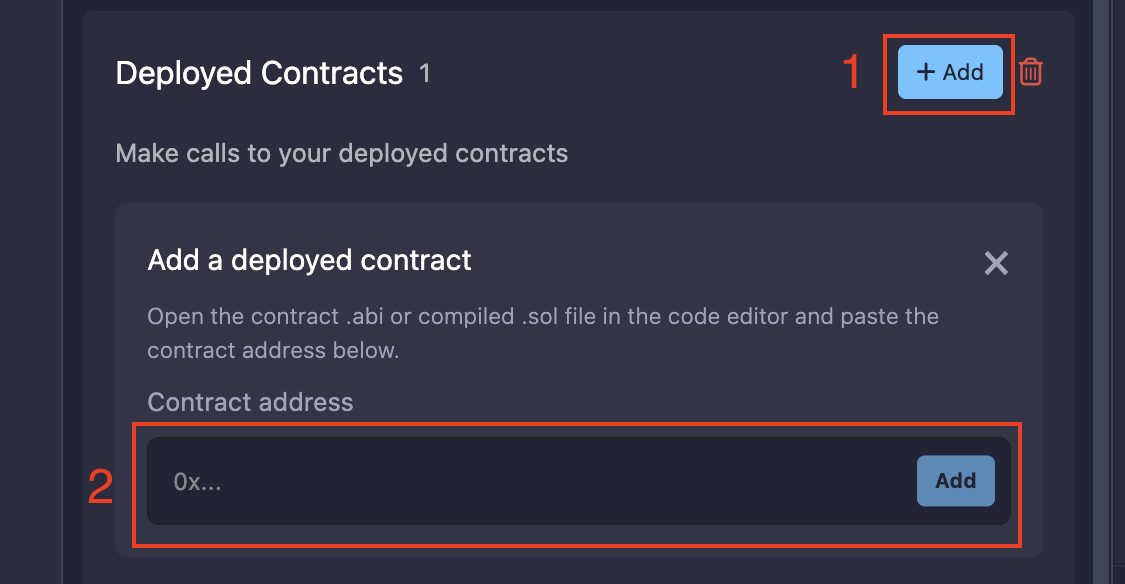
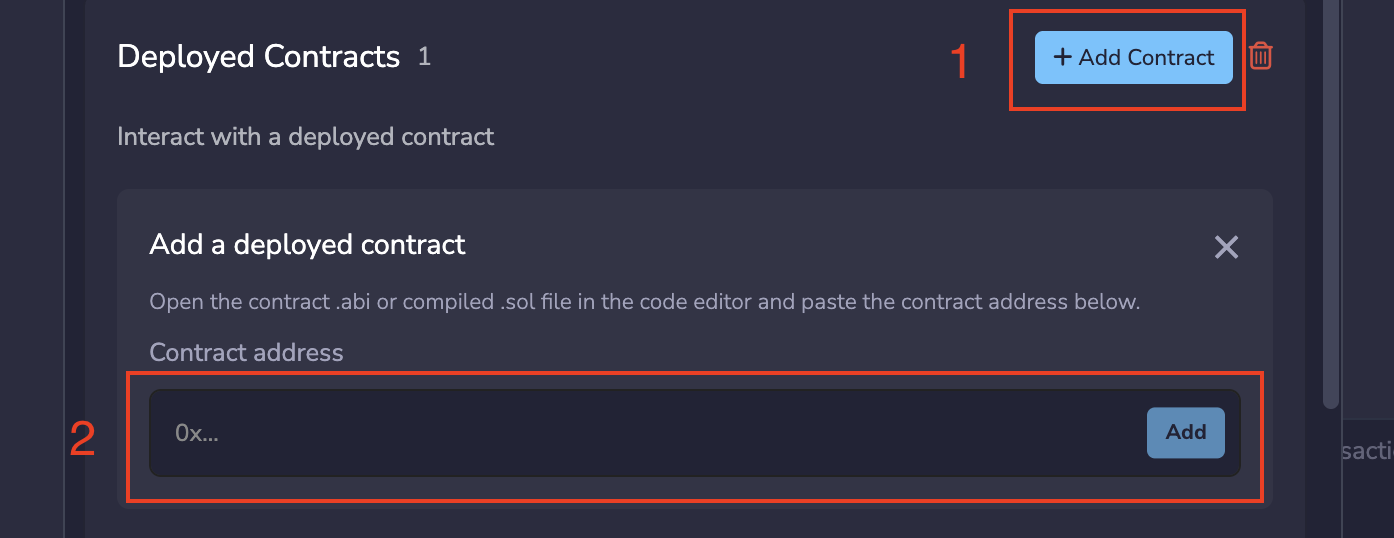
update image

diff --git a/docs/run.md b/docs/run.md
@@ -54,11 +54,11 @@ If the contract's constructor function has parameters, you will need to specify 
 
 ## Loading deployed contracts
 
-If a contract has already been deployed, you can load it into Remix using the "**Add**" button on the Deployed Contracts section.
+If a contract has already been deployed, you can load it into Remix using the "**Add Contract**" button on the **Deployed Contracts** section.
 Adding an already deployed contract costs no gas, since no redeployment is required. To load a deployed contract:
 
 1. Make sure the contract's source code or ABI is in the active tab of the Editor. If using source code, it must be compiled with the same settings as the originally deployed contract.
-2. Enter the deployed contract's address in the contract address field that appears when you click the "**Add**" button.
+2. Enter the deployed contract's address in the contract address field that appears when you click the "**Add Contract**" button.
 3. The contract instance will appear in the **Deployed Contracts** list, ready to interact with.
 
 ![The Deployed Contracts section showing the contract address field and Add button.](images/deploy-and-run/load-contract.png)
